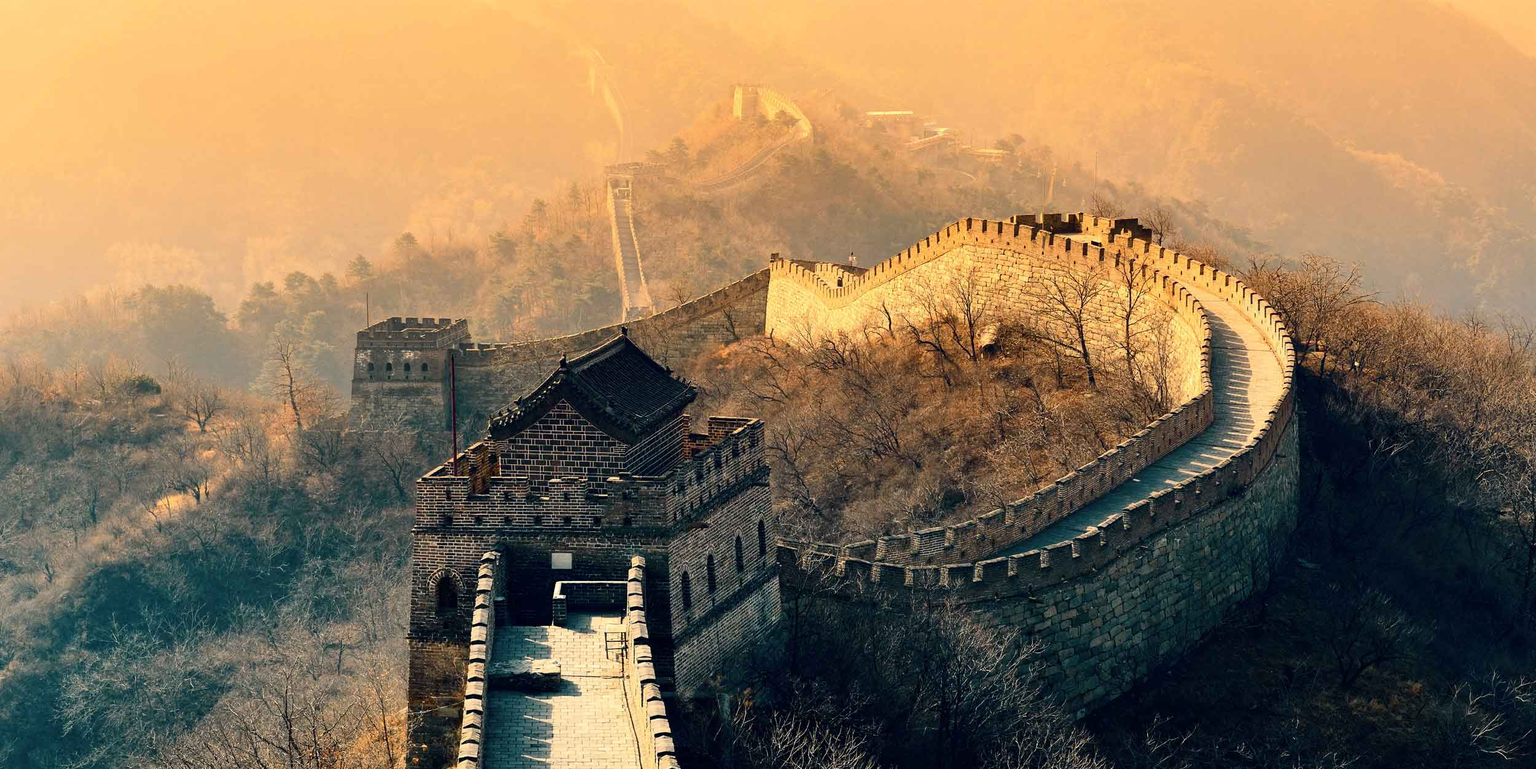
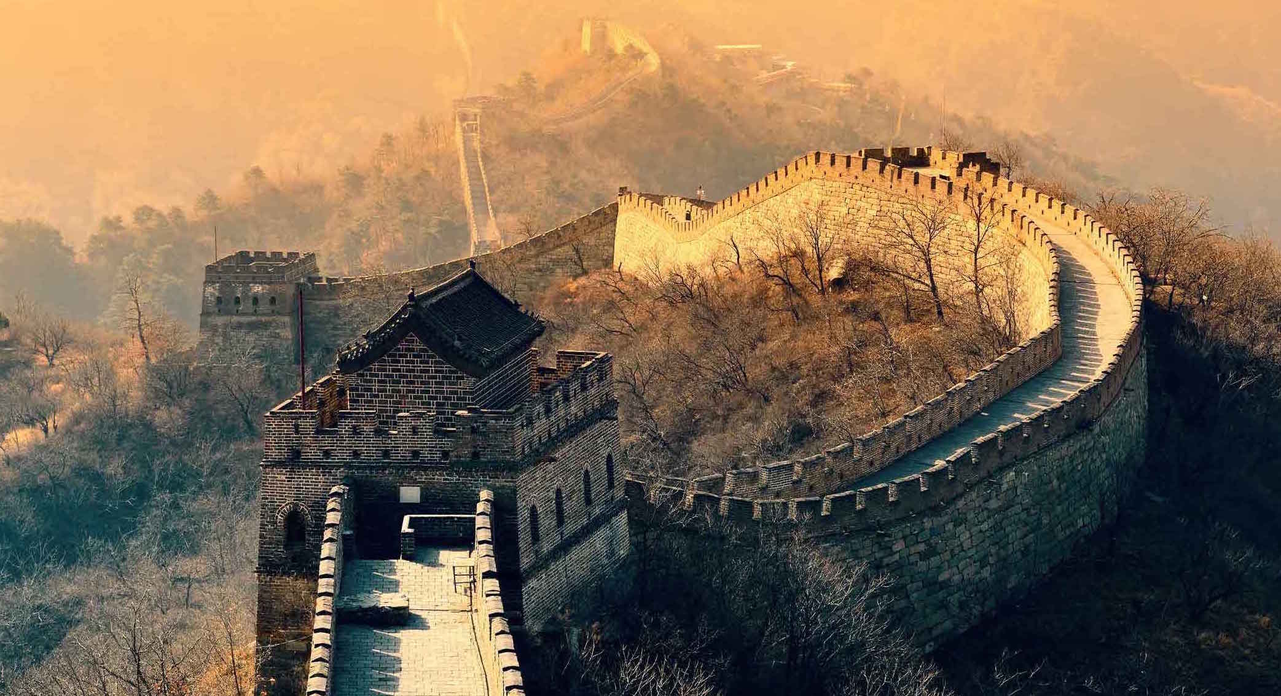
Added pin drop functionality for posts

diff --git a/app/assets/javascripts/application.js b/app/assets/javascripts/application.js
@@ -14,15 +14,23 @@
 //= require jquery_ujs
 //= require turbolinks
 //= require_tree .
-$( document ).ready(function() {
-  $('#menu_select').bind('change', function() { window.location.pathname = $(this).val() });
+$(document).ready(function(){
+
+  // Select destination by region 
+  $('#menu_select').on('change', function() {window.location.pathname = $(this).val()});
 
   // Fade out flash notices
   $('#flash').delay(1200).fadeOut(1000);
 
 });
 
+// Populates latitude and longitude in post form
+function populateInputs(pos) {
+  document.getElementById("post_latitude").value=pos.lat()
+  document.getElementById("post_longitude").value=pos.lng();
+}
 
+// Geocoder function that gets latitude and longitude from address
 function geocodeAddress(geocoder, resultsMap, address) {
   geocoder.geocode({'address': address}, function(results, status) {
     if (status === google.maps.GeocoderStatus.OK) {
@@ -32,20 +40,14 @@ function geocodeAddress(geocoder, resultsMap, address) {
         map: resultsMap,
         position: results[0].geometry.location
       });
-      // sets marker position to the geocoded latitude/longitude
-      var post_lng = marker.position.lng();
-      var post_lat = marker.position.lat();
       // sets hidden form_for fields in the "new report modal" to the latitude/longitude coordinates
-      document.getElementById("post_latitude").setAttribute("value", post_lat); 
-      document.getElementById("post_longitude").setAttribute("value", post_lng);
-      document.getElementById("post_address").setAttribute("value", address);
-      console.log(post_lat);
-      console.log(post_lng);
-      // changes address search button to say "Address Found!"
-      // document.getElementById("submit").setAttribute("value", "Address Found!");
+      populateInputs(marker.position)
+      document.getElementById("post_address").value = address;
+      // changes address search button to say "Location Found!"
+      document.getElementById("submit").setAttribute("value", "Location Found!");
       // changes address search button text back to "Search"
-      // setTimeout(function(){ 
-        // document.getElementById("submit").setAttribute("value", "Search"); }, 3000);
+      setTimeout(function(){ 
+        document.getElementById("submit").setAttribute("value", "Search"); }, 2000);
     } else {
       alert('Geocode was not successful for the following reason: ' + status);
     }
@@ -53,8 +55,7 @@ function geocodeAddress(geocoder, resultsMap, address) {
 }
 
 
-// Creating Message board posts
-
+// Creating message board posts
 function openBoardpostModal() {
   $('#outer_boardpost_modal').fadeIn(200);
 }

diff --git a/app/assets/stylesheets/main.scss b/app/assets/stylesheets/main.scss
@@ -72,6 +72,11 @@ nav {
 	float: right;
 }
 
+.middle {
+	text-align:center;
+	margin-left: 17%;
+}
+
 a {
 	text-decoration: none;
 }
@@ -81,8 +86,10 @@ h3 {
 	font-size: 20px;
 }
 #china_background {
-	background-image: image-url("greatwallofchina.jpg");
-	background: 100%;
+	height: 94vh;
+	background-image: url('greatwallofchina.jpg');
+	background-position: cover;
+	background-repeat: no-repeat;
 }
 
 #map-canvas {
@@ -100,14 +107,14 @@ h1 {
 
 p, label {
 	font-size: 14px;
-	display: inline-block;
+	// display: inline-block;
 }
 
 .individual_countries {
 	position: relative;
 	width: 18%;
 	min-width: 200px;
-	margin: .5%;
+	margin: 0.5%;
 	display: inline-block;
 	img {
 		width: 100%;

diff --git a/app/models/post.rb b/app/models/post.rb
@@ -5,9 +5,9 @@ class Post < ActiveRecord::Base
 
   enum post_type: [:restaurant, :hotel, :other]
 
- #  	geocoded_by :address
-	# reverse_geocoded_by :latitude, :longitude, :address => :full_address
+ 	geocoded_by :address
+	reverse_geocoded_by :latitude, :longitude, :address => :full_address
 
-	# after_validation :geocode, :reverse_geocode
+	after_validation :reverse_geocode
 
 end

diff --git a/app/controllers/boardposts_controller.rb b/app/controllers/boardposts_controller.rb
@@ -6,7 +6,7 @@ class BoardpostsController < ApplicationController
   def create
     @country = Country.find_by(url_name: params[:country_id])
     @boardpost = @country.boardposts.build(boardpost_params)
-    # @boardpost.user_id = current_user.id
+    @boardpost.user_id = current_user.id
     if @boardpost.save
       flash[:notice] = "Your thoughts have been posted"
     else
